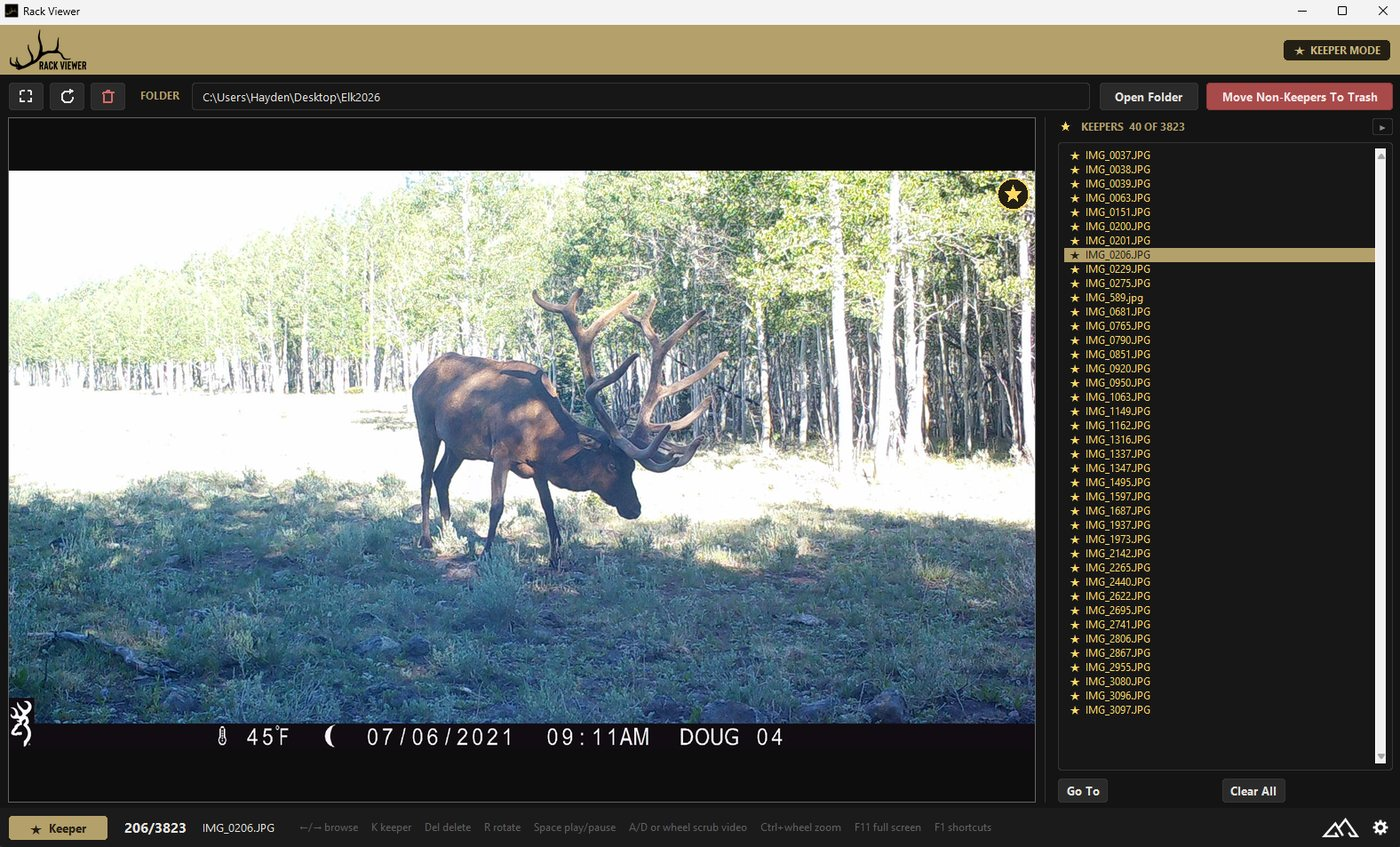
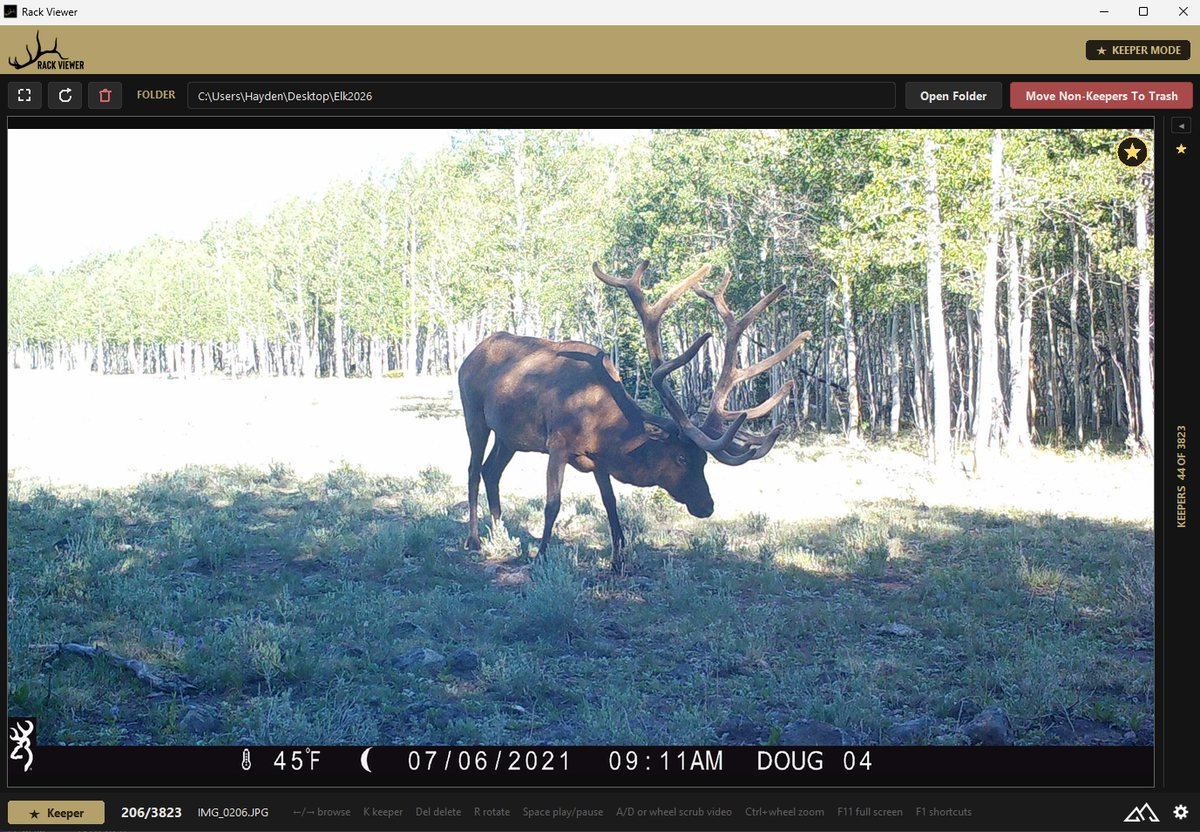
Swap the hero to the collapsed-list screenshot and cut the note back
The size problem was the shape, not the width. The new capture has the keeper list
collapsed, so the photo fills the window and the aspect is 1.44 rather than 1.65.
At 590px wide it stands 410px tall - within 12px of the 697px-wide version it
replaces - so the image reads as large while taking 107px less of the row, which
hands the copy back a 562px column instead of 515px. Row goes to 1200px, ratio to
1fr 1.05fr.

Alt text describes this capture rather than the old one: list collapsed, photo
filling the window, 44 keepers of 3,823 on the side rail.

The note under the buttons is now just the free-forever line plus the platform and
no-cloud promise. The trial count and what the licence buys were duplicating the
Get it section a screen below, which covers both properly.

diff --git a/rack-viewer.html b/rack-viewer.html
@@ -13,13 +13,15 @@
 <link rel="stylesheet" href="style.css">
 <style>
 /* Hero proportions, scoped to this page. .rd-hero-inner is shared with the Detector,
-   Scorer and Tracker pages, whose hero art is a photo or a phone screenshot; Viewer's
-   is a shot of the app window, carrying readable UI - the keeper list, the folder
-   path, the footer legend - so at half the row it was too small to be worth showing.
-   Widening the row and giving the surplus to the image works because the copy is
-   capped at 500-520px by .rd-tagline and .rd-sub anyway, so nothing stretches into
-   over-long lines of text; the image simply gets the rest. */
-.rd-hero-inner { max-width: 1260px; grid-template-columns: 0.85fr 1.15fr; gap: 3rem; }
+   Scorer and Tracker pages, whose hero art is a photo or a portrait phone screenshot
+   and does not want this treatment.
+   The hero shot is the app window with the keeper list collapsed, so the photo fills
+   it and the aspect is 1.44 rather than the 1.65 of a shot with the list showing.
+   That squarer shape is what actually fixed "too small": at 590px wide it stands 410px
+   tall, within 12px of the 697px-wide version it replaced, so the image reads as large
+   while taking 107px less of the row - which hands the copy back a comfortable 562px
+   column instead of 515px. */
+.rd-hero-inner { max-width: 1200px; grid-template-columns: 1fr 1.05fr; gap: 3rem; }
 /* Required, not belt-and-braces: style.css collapses this to one column at 820px,
    but that rule has the same specificity and comes earlier in source order, so the
    override above would otherwise keep two columns on a phone. */
@@ -78,10 +80,10 @@
         <!-- Stripe Payment Link — Rack Viewer license, $20 one-time -->
         <a href="https://buy.stripe.com/3cI6oI7u15ll1ZCairfbq02" class="btn btn-primary" target="_blank" rel="noopener">Buy License — $20</a>
       </div>
-      <p class="rd-note"><strong>Viewing is free forever</strong> — browsing, marking, zoom, rotate and video with sound, with no license and no time limit. Clearing out the non-keepers starts with a free trial of 10 cleanups; the license makes them unlimited. Windows 10/11 · no cloud — your photos never leave your computer.</p>
+      <p class="rd-note"><strong>Viewing is free forever.</strong> Windows 10/11 · no cloud — your photos never leave your computer.</p>
     </div>
     <div>
-      <img src="img/rackviewer-hero.jpg" alt="Rack Viewer showing a bull elk trail-camera photo marked with the gold keeper star, KEEPER MODE in the header, and 40 keepers listed from a folder of 3,823" class="rd-elk">
+      <img src="img/rackviewer-hero.jpg" alt="Rack Viewer with the keeper list collapsed so a bull elk trail-camera photo fills the window, the gold keeper star on the image, KEEPER MODE in the header, and 44 keepers of 3,823 on the slim side rail" class="rd-elk">
     </div>
   </div>
 </section>
